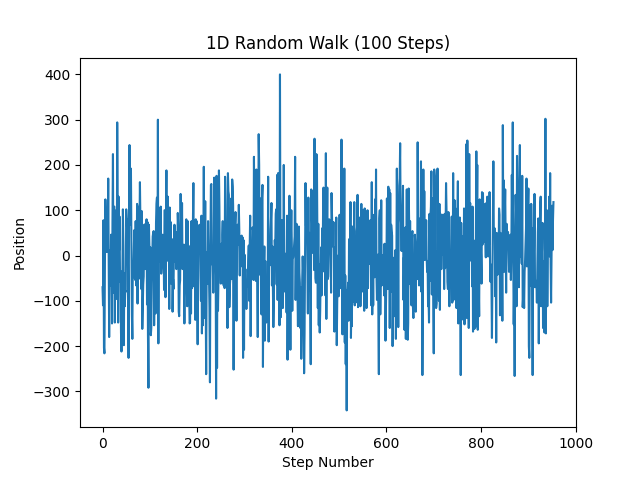
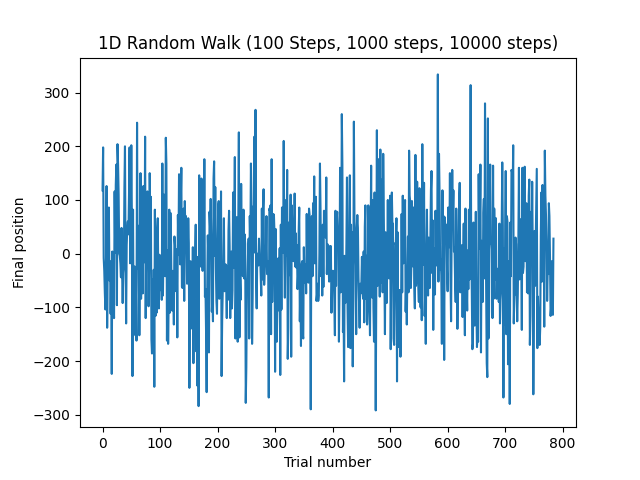
Added histogram plot logic, standard deviation and variance calculations as well as the correct plot titles, figures for x & y axis labels

diff --git a/simulate.py b/simulate.py
@@ -24,6 +24,7 @@ class Experiment(object):
     def __init__(self):
         self.mean = 0.0
         self.stddeviation = 0.0
+        self.variance = 0.0
         self.max_distance = 0
         self.trialcount = 0
         self.data = []
@@ -38,23 +39,31 @@ class Experiment(object):
             
         self.mean = statistics.mean(self.data)
         self.stddeviation = statistics.stdev(self.data)
-        self.max_distance = max(self.data, key=abs)
+        self.variance = statistics.variance(self.data)
+        self.max_distance = abs(max(self.data, key=abs))
 
     def plot(self):
+        plt.clf()
         plt.plot(self.data)
-        plt.title("1D Random Walk (100 Steps)")
-        plt.xlabel("Step Number")
-        plt.ylabel("Position")
+        plt.title("1D Random Walk (100 Steps, 1000 steps, 10000 steps)")
+        plt.xlabel("Trial number")
+        plt.ylabel("Final position")
         plt.savefig("plot.png")
         plt.show()
-
+        plt.clf()
+        plt.hist(self.data, bins=6)
+        plt.title("Histogram - 1D Random Walk (100 Steps, 1000 steps, 10000 steps)")
+        plt.xlabel("Final position value")
+        plt.ylabel("Frequency")
+        plt.savefig("plothist.png")
+        plt.show()
             
 
 def main():
     a = Experiment()
     a.trial()
     print(f"After {a.trialcount} trials")
-    print(f"Mean final position {a.mean}, Max absolute distance {abs(a.max_distance)}")
+    print(f"Mean position {a.mean}, Max distance (absolute) {a.max_distance}, standard deviation = {a.stddeviation}, variance = {a.variance}")
     a.plot()
 
 
